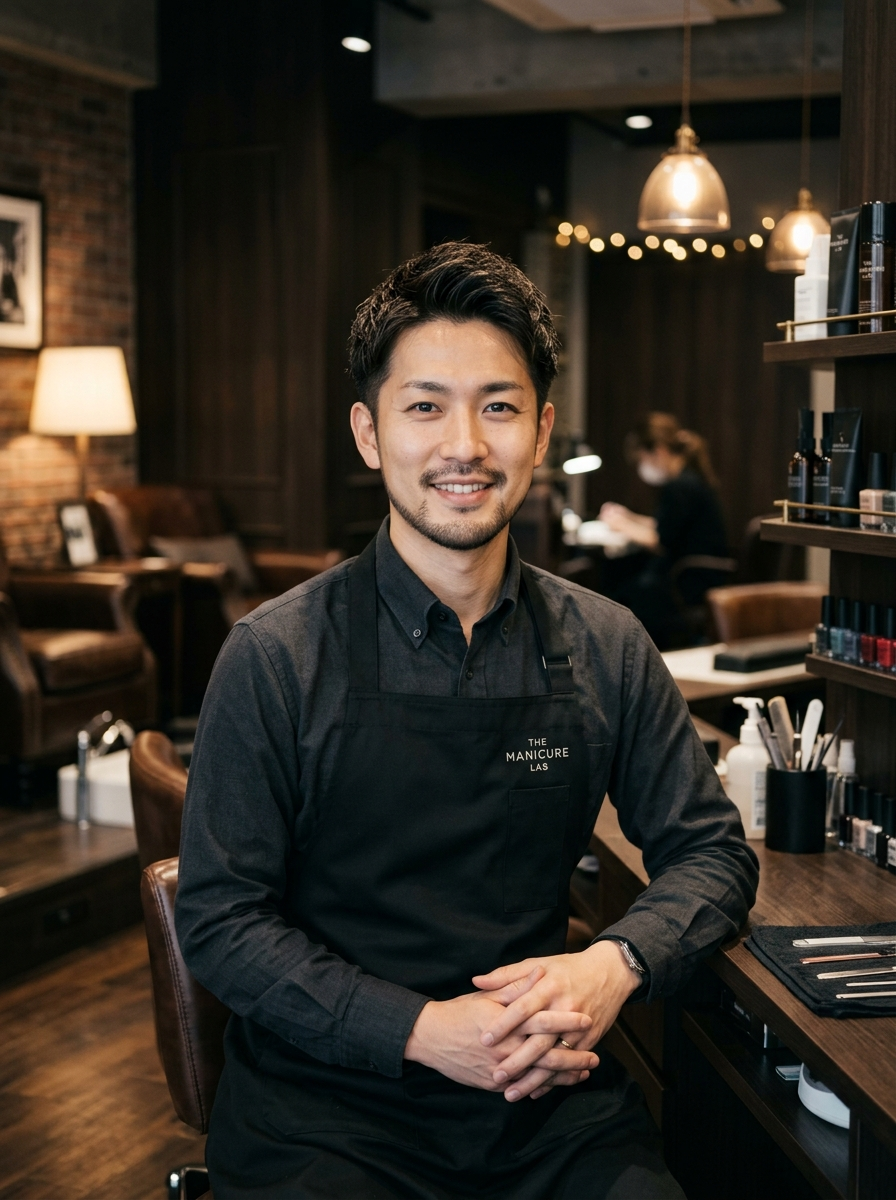
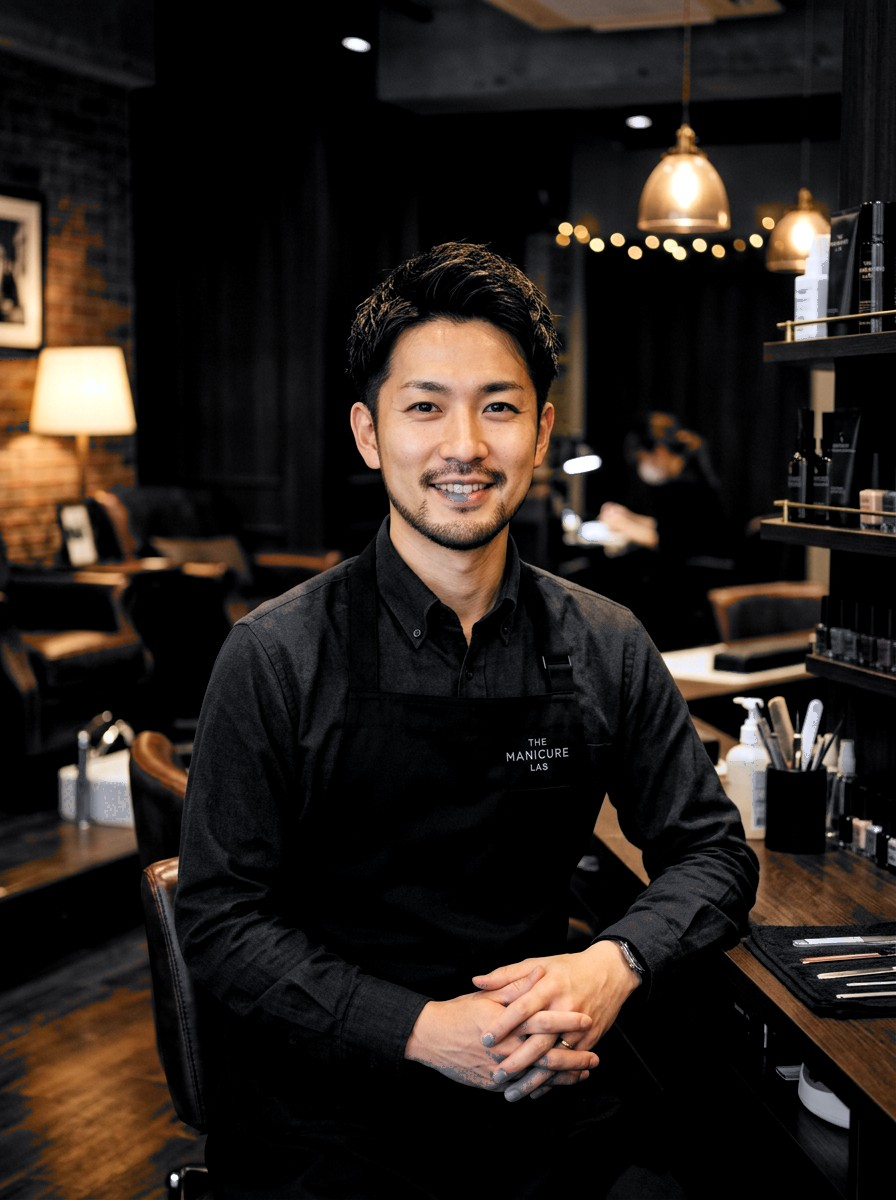
feat: メンズネイリスト5名のポートレートを同一スタジオテンポ・黒グレー白のモノトーン空間に統一

diff --git a/src/components/mens/MensStaffSection.tsx b/src/components/mens/MensStaffSection.tsx
@@ -26,8 +26,8 @@ export default function MensStaffSection() {
           </h2>
 
           <p className="text-xs sm:text-sm text-zinc-400 font-light leading-relaxed">
-            サロンには総勢5名の男性ネイリストが在籍。<br className="hidden sm:inline" />
-            男性特有の爪の悩み、骨格、ライフスタイルに寄り添い、完全個室で一人ひとりと真摯に向き合います。<br className="hidden sm:inline" />
+            黒・グレー・白を基調としたミニマル＆ラグジュアリーな完全個室空間に、総勢5名の専任男性ネイリストが在籍。<br className="hidden sm:inline" />
+            男性特有の爪の悩み、骨格、ライフスタイルに寄り添い、シャープで清潔感ある理想の指先へと導きます。<br className="hidden sm:inline" />
             スタッフ指名料: <strong className="text-white font-mono">{MENS_SALON_INFO.nominationFee}</strong>
           </p>
         </div>
@@ -40,8 +40,8 @@ export default function MensStaffSection() {
               className="mens-glass-card rounded-3xl p-5 flex flex-col justify-between group transition-all duration-300 space-y-4"
             >
               <div className="space-y-3">
-                {/* 写真コンテナ（男性ネイリスト顔写真ポートレート） */}
-                <div className="relative aspect-[4/5] w-full rounded-2xl overflow-hidden bg-zinc-950 border border-zinc-800">
+                {/* 写真コンテナ（男性ネイリスト顔写真ポートレート：黒・グレー・白スタジオ統一テンポ） */}
+                <div className="relative aspect-[4/5] w-full rounded-2xl overflow-hidden bg-zinc-950 border border-zinc-800/90 shadow-lg">
                   {!failedImages[staff.id] ? (
                     <Image
                       src={staff.image}
@@ -49,7 +49,7 @@ export default function MensStaffSection() {
                       fill
                       sizes="(max-width: 768px) 100vw, 20vw"
                       onError={() => setFailedImages(prev => ({ ...prev, [staff.id]: true }))}
-                      className="object-cover object-top group-hover:scale-105 transition-transform duration-500"
+                      className="object-cover object-top group-hover:scale-105 transition-transform duration-700 contrast-[1.04]"
                     />
                   ) : (
                     <MensBrandLogoPlaceholder
@@ -58,15 +58,18 @@ export default function MensStaffSection() {
                       size="md"
                     />
                   )}
-                  <div className="absolute inset-0 bg-gradient-to-t from-black/90 via-black/20 to-transparent pointer-events-none" />
+                  {/* 黒・グレー・白のシネマティックモノトーン統一グラデーション */}
+                  <div className="absolute inset-0 bg-gradient-to-t from-black via-zinc-950/20 to-transparent pointer-events-none" />
+                  <div className="absolute inset-0 ring-1 ring-inset ring-white/10 rounded-2xl pointer-events-none" />
 
-                  <span className="absolute top-2.5 right-2.5 px-2 py-0.5 rounded-full bg-zinc-900/90 text-zinc-300 text-[10px] font-mono border border-zinc-700">
+                  {/* 歴年数バッジ */}
+                  <span className="absolute top-2.5 right-2.5 px-2 py-0.5 rounded-full bg-zinc-900/95 backdrop-blur-sm text-zinc-300 text-[10px] font-mono border border-zinc-700 shadow-sm">
                     {staff.experience}
                   </span>
 
                   <div className="absolute bottom-3 left-3 right-3 text-white">
-                    <p className="text-[10px] text-zinc-400 font-light">{staff.kana}</p>
-                    <h3 className="font-serif text-lg font-medium leading-tight">{staff.name}</h3>
+                    <p className="text-[10px] text-zinc-400 font-mono tracking-wider">{staff.kana}</p>
+                    <h3 className="font-serif text-lg font-medium leading-tight tracking-wide drop-shadow-sm">{staff.name}</h3>
                   </div>
                 </div>
 
